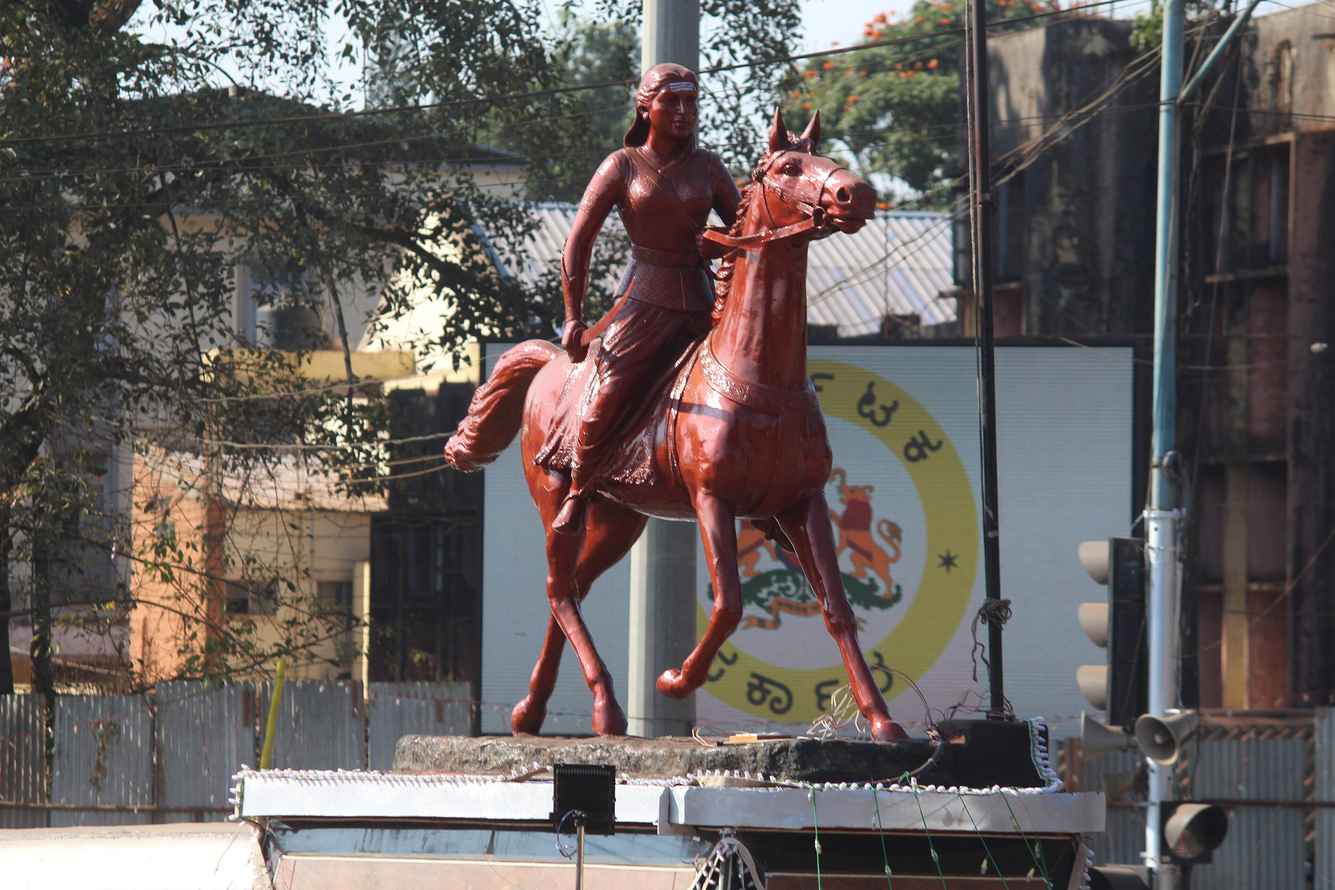
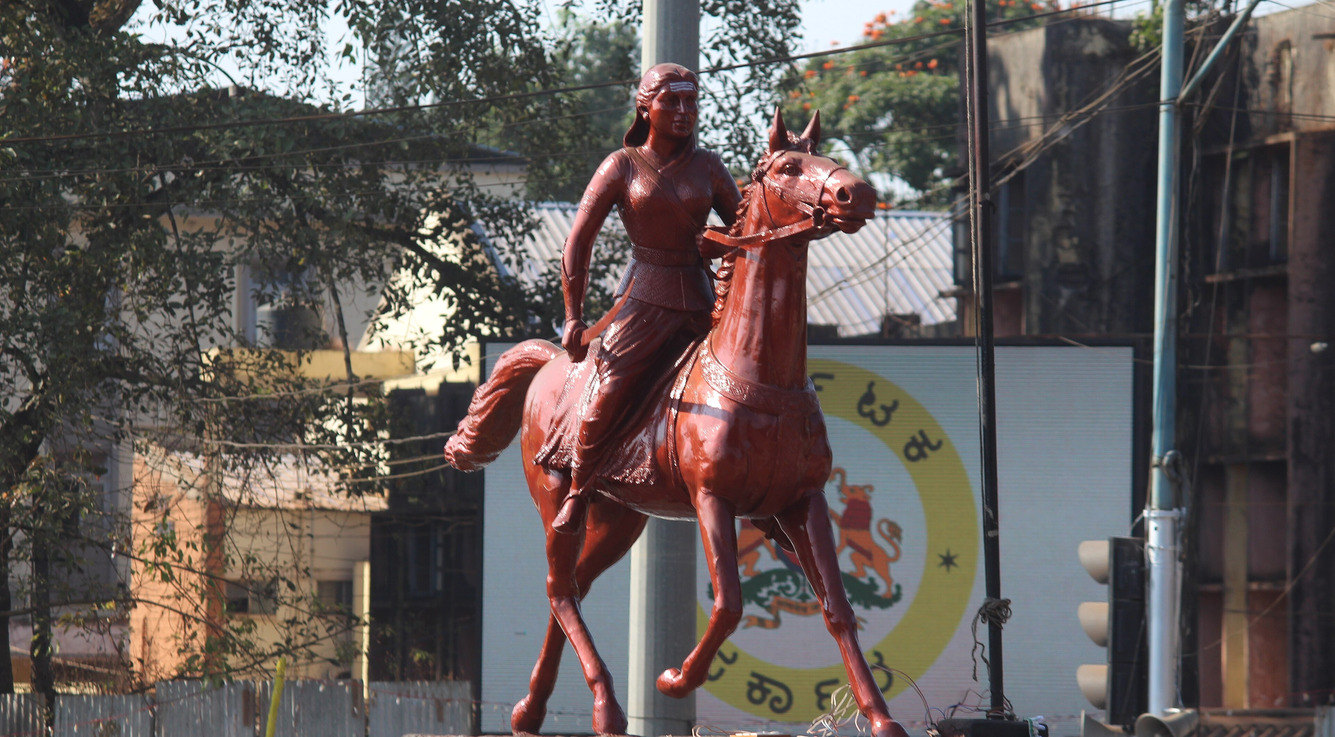
hero images rendering fixes

diff --git a/src/styles/global.css b/src/styles/global.css
@@ -129,6 +129,7 @@
      the cycle; slides are offset by 6s (18s / 3) via animation-delay in index.astro. */
   .hero-slide {
     animation: heroFade 18s ease-in-out infinite;
+    transform-origin: var(--origin, center);
     opacity: 0;
   }
   @keyframes heroFade {
@@ -138,9 +139,28 @@
     38% { opacity: 0; transform: scale(1.13); }
     100% { opacity: 0; transform: scale(1.13); }
   }
+  /* Phones: the photo band is already tightly framed, so zoom less and crop less. */
+  @media (max-width: 639px) {
+    .hero-slide { animation-name: heroFadeSmall; transform-origin: var(--origin-small, center); }
+  }
+  @keyframes heroFadeSmall {
+    0% { opacity: 0; transform: scale(1); }
+    4% { opacity: 1; }
+    33.3% { opacity: 1; transform: scale(1.04); }
+    38% { opacity: 0; transform: scale(1.045); }
+    100% { opacity: 0; transform: scale(1.045); }
+  }
+  /* Devices set to reduce motion (often via battery saver) still rotate the photos,
+     but with a plain crossfade and no zoom. */
   @media (prefers-reduced-motion: reduce) {
-    .hero-slide { animation: none; opacity: 0; }
-    .hero-slide:first-child { opacity: 1; }
+    .hero-slide { animation-name: heroCrossfade; }
+  }
+  @keyframes heroCrossfade {
+    0% { opacity: 0; }
+    4% { opacity: 1; }
+    33.3% { opacity: 1; }
+    38% { opacity: 0; }
+    100% { opacity: 0; }
   }
 
   .no-scrollbar { scrollbar-width: none; }

diff --git a/src/lib/og.ts b/src/lib/og.ts
@@ -29,8 +29,8 @@ const PHOTOS: {
     file: 'src/assets/hero/chennamma-circle.jpg',
     place: 'Chennamma Circle',
     credit: 'Djsourabh.bwd, CC BY-SA 4.0',
-    // Statue only: cut just below the hooves to drop the pedestal and lights.
-    crop: { left: 710, top: 58, width: 1983, height: 2083 },
+    // Statue only. The file itself is already cut just below the hooves (no slab).
+    crop: { left: 710, top: 58, width: 1983, height: 2064 },
   },
   {
     file: 'src/assets/hero/suvarna-vidhana-soudha.jpg',
